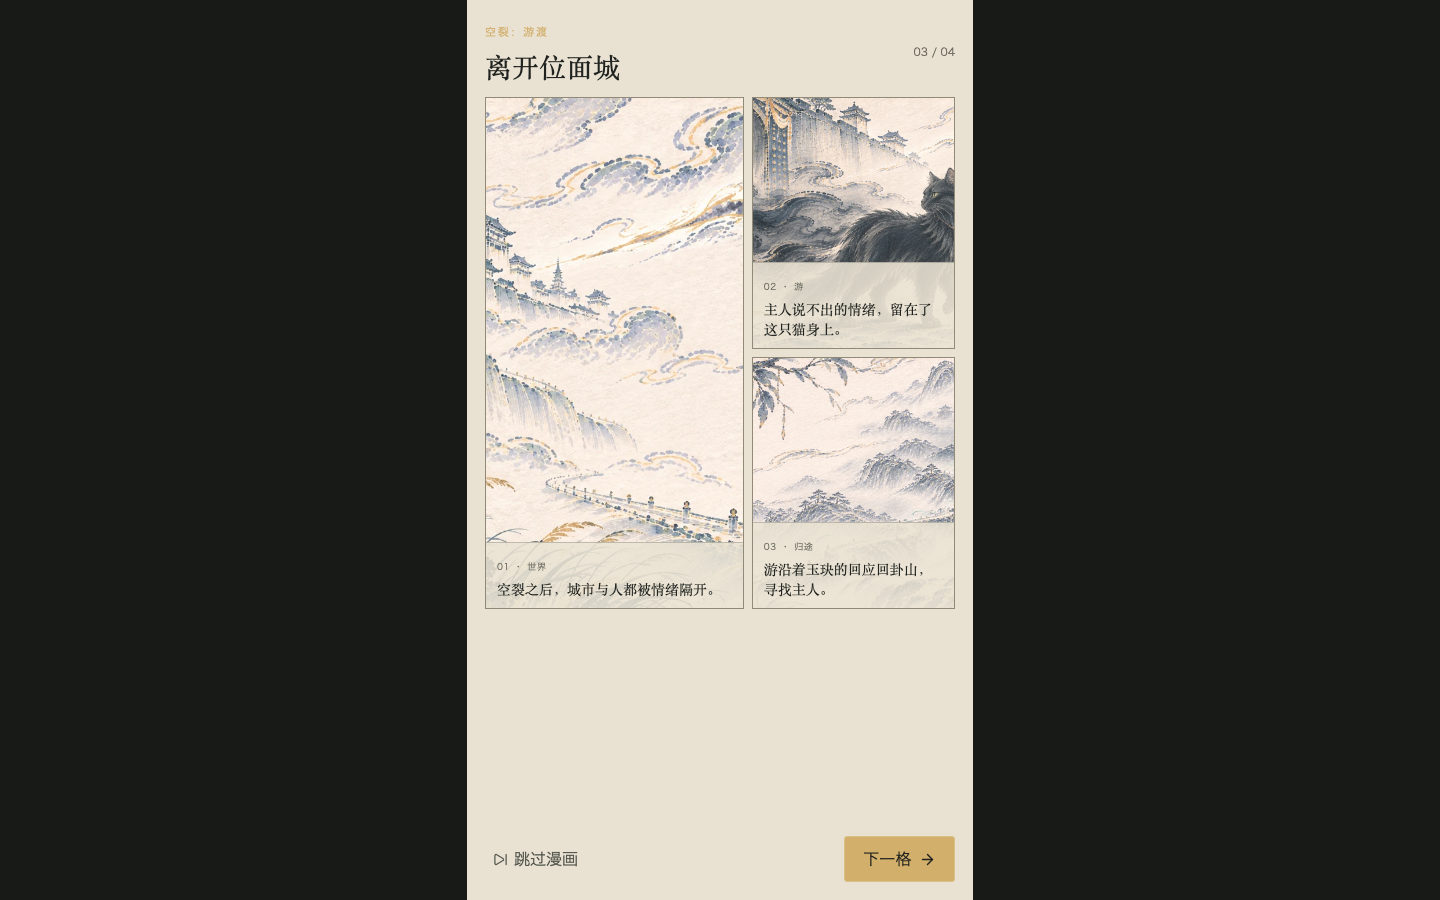
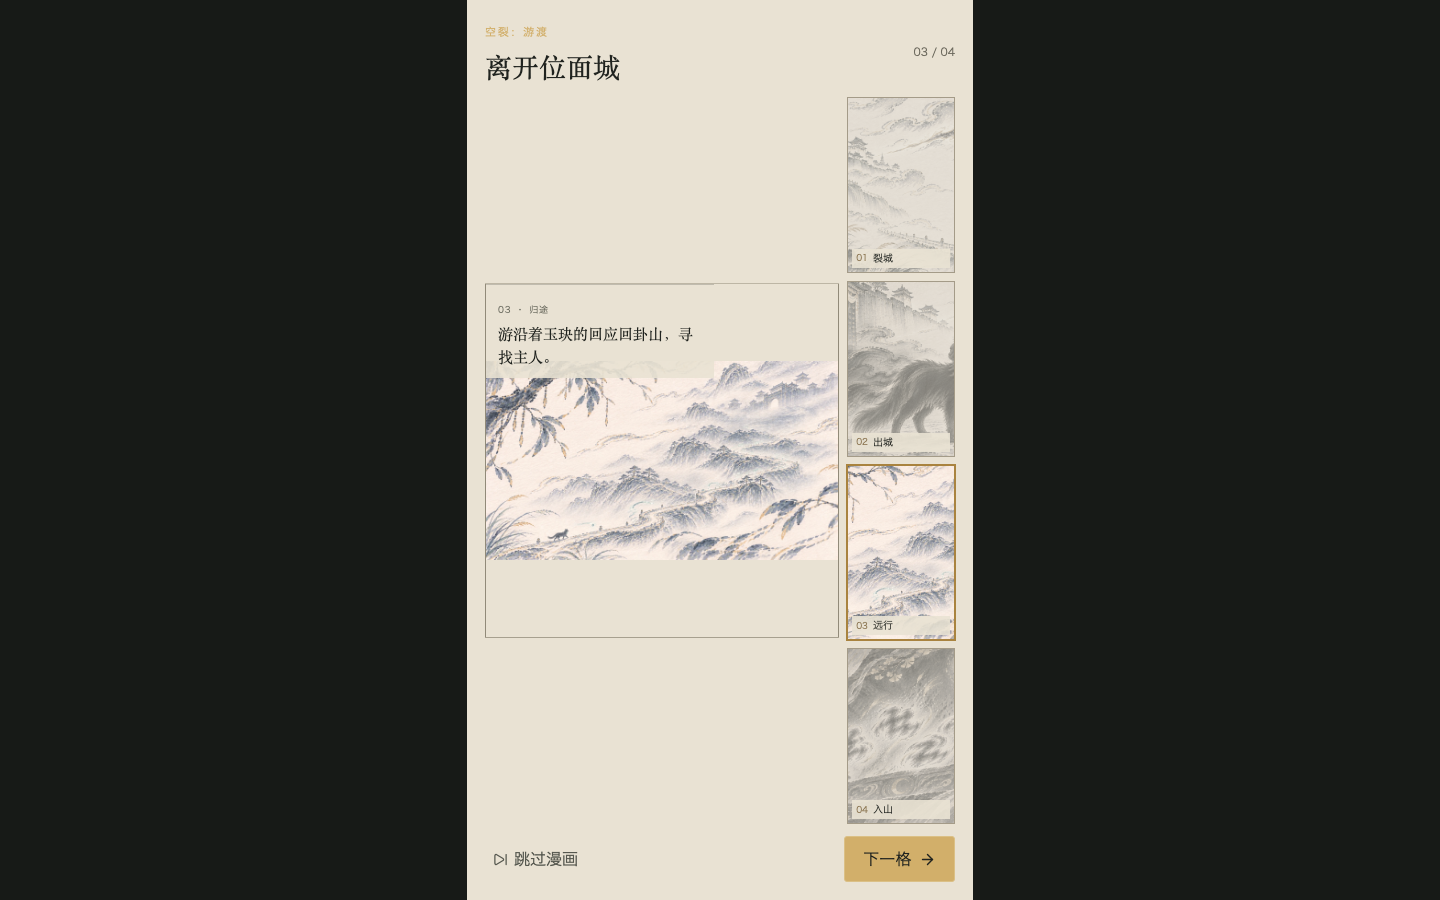
refine comic direction with Claude review

Changed region(s): [[0.3125, 0.0933, 0.6875, 0.9333], [0.3438, 0.1244, 0.375, 0.1556]]

diff --git a/app/src/art-reboot/styles.css b/app/src/art-reboot/styles.css
@@ -121,3 +121,51 @@ button:focus-visible { outline: 2px solid #d2af6a; outline-offset: 3px; }
 @media (prefers-reduced-motion: reduce) {
   *, *::before, *::after { animation-duration: .01ms !important; animation-iteration-count: 1 !important; transition-duration: .01ms !important; }
 }
+.comic-cinema { display: grid; grid-template-columns: minmax(0, 1fr) 108px; gap: 10px; flex: 1; min-height: 0; }
+.comic-main-shot { position: relative; align-self: center; width: 100%; height: auto; max-height: 100%; aspect-ratio: 1 / 1; overflow: hidden; isolation: isolate; background: #e9e2d3; border: 1px solid #918a79; animation: comic-main-reveal .45s steps(3, end) both; }
+.comic-main-shot .comic-shot { position: absolute; inset: 0; width: 100%; height: 100%; object-fit: contain; }
+.comic-rail { display: flex; flex-direction: column; gap: 8px; min-height: 0; }
+.comic-rail button { position: relative; flex: 1; min-height: 0; padding: 0; overflow: hidden; background: #d5cdbd; border: 1px solid #a49b88; cursor: pointer; }
+.comic-rail button img { width: 100%; height: 100%; object-fit: cover; opacity: .5; filter: grayscale(.65); transition: opacity 160ms ease, filter 160ms ease; }
+.comic-rail button.is-active { border-color: #a9833f; box-shadow: 0 0 0 1px #a9833f; }
+.comic-rail button.is-active img, .comic-rail button:hover img { opacity: 1; filter: grayscale(0); }
+.comic-rail button span { position: absolute; left: 4px; right: 4px; bottom: 4px; display: flex; align-items: center; gap: 5px; padding: 2px 4px; color: #20231f; background: rgba(233, 226, 211, .9); font-size: 10px; }
+.comic-rail button small { color: #8a7450; font-size: 9px; }
+.comic-main-shot .comic-caption { position: absolute; z-index: 3; max-width: 58%; padding: 10px 12px; background: rgba(233, 226, 211, .9); border-top: 1px solid rgba(32, 35, 31, .2); }
+.comic-main-shot .comic-caption span { color: #6c6c60; font-size: 9px; letter-spacing: .1em; }
+.comic-main-shot .comic-caption p { margin: 4px 0 0; font: 500 15px/1.5 'Songti SC', serif; }
+.comic-main-shot .caption-0 { left: 0; right: auto; top: auto; bottom: 0; }
+.comic-main-shot .caption-1 { left: auto; right: 0; top: 0; bottom: auto; }
+.comic-main-shot .caption-2 { left: 0; right: auto; top: 0; bottom: auto; }
+.comic-main-shot .caption-3 { left: 0; right: auto; top: auto; bottom: 0; max-width: 68%; }
+.comic-effect-rift { position: absolute; z-index: 1; inset: 0; background: linear-gradient(112deg, transparent 42%, rgba(233, 226, 211, .74) 50%, transparent 58%); animation: comic-rift-open 1.5s steps(3, end) both; }
+.comic-effect-retreat { position: absolute; z-index: 1; inset: 0; background: #20231f; animation: comic-ink-retreat 1.4s steps(4, end) forwards; }
+.comic-effect-footprints { position: absolute; z-index: 2; inset: 0; pointer-events: none; }
+.comic-effect-footprints i { position: absolute; width: 8px; height: 5px; border-radius: 45% 55% 40% 60%; background: #20231f; opacity: 0; animation: comic-footprint .25s steps(1, end) forwards; animation-delay: calc(.45s + var(--step) * .3s); }
+.comic-effect-footprints i:nth-child(1) { left: 18%; top: 79%; transform: rotate(-18deg); }
+.comic-effect-footprints i:nth-child(2) { left: 25%; top: 74%; transform: rotate(12deg); }
+.comic-effect-footprints i:nth-child(3) { left: 32%; top: 68%; transform: rotate(-14deg); }
+.comic-effect-footprints i:nth-child(4) { left: 39%; top: 62%; transform: rotate(9deg); }
+.comic-effect-footprints i:nth-child(5) { left: 46%; top: 56%; transform: rotate(-8deg); }
+.comic-effect-road { position: absolute; z-index: 1; inset: 0; background: #e9e2d3; animation: comic-road-reveal 1.6s steps(3, end) forwards; }
+.comic-effect-clusters { position: absolute; z-index: 2; inset: 0; pointer-events: none; }
+.comic-effect-clusters i { position: absolute; width: 10px; height: 8px; border-radius: 48% 52% 45% 55%; background: #20231f; opacity: 0; animation: comic-cluster 1.5s steps(3, end) forwards; animation-delay: calc(var(--step) * .16s); }
+.comic-effect-clusters i:nth-child(1) { left: 18%; top: 72%; width: 16px; height: 12px; }
+.comic-effect-clusters i:nth-child(2) { left: 34%; top: 66%; width: 9px; height: 7px; }
+.comic-effect-clusters i:nth-child(3) { left: 49%; top: 75%; width: 20px; height: 13px; }
+.comic-effect-clusters i:nth-child(4) { left: 61%; top: 62%; width: 7px; height: 5px; }
+.comic-effect-clusters i:nth-child(5) { left: 72%; top: 70%; width: 12px; height: 8px; }
+@keyframes comic-main-reveal { from { clip-path: inset(0 0 100% 0); } to { clip-path: inset(0); } }
+@keyframes comic-rift-open { from { clip-path: inset(0 48% 0 48%); opacity: 0; } to { clip-path: inset(0); opacity: 1; } }
+@keyframes comic-ink-retreat { from { clip-path: inset(0 0 0 0); } to { clip-path: inset(0 100% 0 0); } }
+@keyframes comic-footprint { to { opacity: .82; } }
+@keyframes comic-road-reveal { from { clip-path: inset(0); } to { clip-path: inset(100% 0 0 0); } }
+@keyframes comic-cluster { 0% { opacity: 0; transform: translate(10px, -8px) scale(.7); } 60% { opacity: .55; } 100% { opacity: .9; transform: translate(0, 0) scale(1); } }
+@media (max-width: 760px) {
+  .comic-cinema { grid-template-columns: 1fr; grid-template-rows: minmax(0, 1fr) 64px; }
+  .comic-rail { flex-direction: row; }
+  .comic-rail button img { display: none; }
+  .comic-rail button span { inset: 3px; justify-content: center; }
+  .comic-main-shot .comic-caption { max-width: 82%; }
+  .comic-main-shot .caption-3 { max-width: 88%; }
+}

diff --git a/app/src/art-reboot/RebootComic.tsx b/app/src/art-reboot/RebootComic.tsx
@@ -4,14 +4,15 @@ import { ArrowRight, SkipForward } from 'lucide-react'
 type Props = { onComplete: () => void }
 
 const PANELS = [
-  { kicker: '01 · 世界', text: '空裂之后，城市与人都被情绪隔开。' },
-  { kicker: '02 · 游', text: '主人说不出的情绪，留在了这只猫身上。' },
-  { kicker: '03 · 归途', text: '游沿着玉玦的回应回卦山，寻找主人。' },
-  { kicker: '04 · 痴', text: '先看清三个“痴”，让古寺复色，才能继续向前。' },
+  { kicker: '01 · 世界', label: '裂城', text: '空裂之后，城市与人都被情绪隔开。' },
+  { kicker: '02 · 游', label: '出城', text: '主人说不出的情绪，留在了这只猫身上。' },
+  { kicker: '03 · 归途', label: '远行', text: '游沿着玉玦的回应回卦山，寻找主人。' },
+  { kicker: '04 · 五毒', label: '入山', text: '卦山把五毒放大成失真的情绪。看清它们，才能继续靠近主人。' },
 ]
 
 export default function RebootComic({ onComplete }: Props) {
   const [active, setActive] = useState(0)
+  const next = () => active === PANELS.length - 1 ? onComplete() : setActive((value) => value + 1)
   return (
     <main className="reboot-shell reboot-comic-shell">
       <section className="reboot-comic" aria-label="逐格出城漫画">
@@ -19,24 +20,29 @@ export default function RebootComic({ onComplete }: Props) {
           <div><span className="reboot-kicker">空裂：游渡</span><h1>离开位面城</h1></div>
           <span>{String(active + 1).padStart(2, '0')} / 04</span>
         </header>
-        <div className="reboot-comic-grid">
-          {PANELS.map((panel, index) => {
-            const visible = index <= active
-            return (
-              <article key={panel.kicker} className={`comic-panel comic-panel-${index} ${visible ? 'is-visible' : ''}`} aria-hidden={!visible}>
-                <div className="comic-panel-art">
-                  <img className={`comic-shot comic-shot-${index}`} src={`./assets/art-reboot/cinematic/comic-0${index + 1}.webp`} alt={panel.text} />
-                </div>
-                <div className="comic-caption"><span>{panel.kicker}</span><p>{panel.text}</p></div>
-              </article>
-            )
-          })}
+        <div className="comic-cinema">
+          <div className={`comic-main-shot shot-${active}`} data-panel={active + 1} key={active}>
+            <img className={`comic-shot comic-shot-${active}`} src={`./assets/art-reboot/cinematic/comic-0${active + 1}.webp`} alt={PANELS[active].text} />
+            {active === 0 && <div className="comic-effect-rift" aria-hidden="true" />}
+            {active === 1 && (
+              <><div className="comic-effect-retreat" aria-hidden="true" /><div className="comic-effect-footprints" aria-hidden="true">{[0, 1, 2, 3, 4].map((index) => <i key={index} style={{ '--step': index } as React.CSSProperties} />)}</div></>
+            )}
+            {active === 2 && <div className="comic-effect-road" aria-hidden="true" />}
+            {active === 3 && <div className="comic-effect-clusters" aria-hidden="true">{[0, 1, 2, 3, 4].map((index) => <i key={index} style={{ '--step': index } as React.CSSProperties} />)}</div>}
+            <div className={`comic-caption caption-${active}`}><span>{PANELS[active].kicker}</span><p>{PANELS[active].text}</p></div>
+          </div>
+          <nav className="comic-rail" aria-label="选择分镜">
+            {PANELS.map((panel, index) => (
+              <button key={panel.kicker} type="button" className={index === active ? 'is-active' : ''} onClick={() => setActive(index)} aria-label={`查看第${index + 1}格：${panel.label}`} aria-pressed={index === active}>
+                <img src={`./assets/art-reboot/cinematic/comic-0${index + 1}.webp`} alt="" />
+                <span><small>0{index + 1}</small>{panel.label}</span>
+              </button>
+            ))}
+          </nav>
         </div>
         <footer className="reboot-comic-footer">
           <button type="button" className="reboot-text-link" onClick={onComplete}><SkipForward size={15} />跳过漫画</button>
-          <button type="button" className="reboot-primary" onClick={() => active === PANELS.length - 1 ? onComplete() : setActive((value) => value + 1)}>
-            {active === PANELS.length - 1 ? '进入游戏' : '下一格'}<ArrowRight size={17} />
-          </button>
+          <button type="button" className="reboot-primary" onClick={next}>{active === PANELS.length - 1 ? '进入游戏' : '下一格'}<ArrowRight size={17} /></button>
         </footer>
       </section>
     </main>

diff --git a/tools/prepare_art_reboot_assets.py b/tools/prepare_art_reboot_assets.py
@@ -49,7 +49,8 @@ for row, suffix in enumerate(['outer', 'inner']):
 cinematic_out = OUT / 'cinematic'
 cinematic_out.mkdir(exist_ok=True)
 for key in ['scene-outer', 'scene-inner', 'scene-complete', 'comic-01', 'comic-02', 'comic-03', 'comic-04']:
-    source = CANDIDATES / 'comparisons' / f'gpt-{key}-ink-v1.png'
+    version = 'v2' if key == 'scene-complete' and (CANDIDATES / 'comparisons' / 'gpt-scene-complete-ink-v2.png').exists() else 'v1'
+    source = CANDIDATES / 'comparisons' / f'gpt-{key}-ink-{version}.png'
     if not source.exists():
         raise FileNotFoundError(source)
     image = Image.open(source).convert('RGBA')

diff --git a/docs/CLAUDE_SGP_DEV_HANDOFF.md b/docs/CLAUDE_SGP_DEV_HANDOFF.md
@@ -1,0 +1,34 @@
+# sgp-dev / Claude 独立开发交接
+
+## 协作边界
+
+- 本地预留分支：`art-reboot-claude`，工作区：`/Users/wvngbvao483/offcircle_dev/konglie-youdu-claude`。
+- sgp-dev 如在另一台机器上，应 clone `https://github.com/biaowww/konglie-youdu` 并 checkout `art-reboot-claude`，完成后 push 同一分支，不直接覆盖 `art-reboot-kimi`。
+- 不允许多个写作者同时改同一工作区。最终合并由同一个集成负责人执行。
+
+## 开始前必须验证，不可预设
+
+1. G Drive／MCP 的实际可读路径与写入权限，不要只凭插件名称判断。
+2. Node、npm、Python、图像处理与浏览器验收能力。
+3. OpenRouter 的专用凭证是否存在，不得借用其他 session 的 Key。
+4. 本机 ComfyUI 是否可访问。若不可访问，不要假设能调用本机模型或进程；改为使用明确授权的 OpenRouter 管线，或先报告阻塞。
+5. 先读 `03 Art` 原始美术和 `docs/ART_REBOOT.md`，不要从其他模型的摘要重新概括风格。
+
+## 开发目标
+
+做一套独立的 `art-reboot-claude` 候选，重点不是复制 Kimi 版本，而是解决：
+
+- 分镜必须能表达世界、游为何出发与寻找主人，末格不做单关教学。
+- 自然猫、神像、玉玦与环境一体化，禁止悬浮饰物与 sticker 拼贴。
+- 墨点、飞白、抽象形体、非对称与中式散点透视，不要现代写实、3D 和通用 AI 奇幻插画。
+- 每格有独立版式与局部动效，不能只把图塞进网格或平移缩放。
+- 痴关卡保留“移动光圈→看清痴→点击”的轻引导，不让教程压过世界观。
+
+## 文件与发布边界
+
+- 新实现放在 `app/art-reboot.html`、`app/src/art-reboot/**`、`app/public/assets/art-reboot/**`、`qa/art-reboot/**`、`docs/ART_REBOOT.md`。
+- `app/vite.config.ts` 只能登记独立 HTML，不改旧游戏入口。
+- 不改 `App.tsx`、`App.css`、旧关卡、地图、package.json、锁文件和发布配置，不自行新增依赖。
+- 美术候选输出到 `03 Art/AI生成资产/claude/`，不输出到 `ProjectBreach/美术Art`，不覆盖原图。
+- 每步保持可构建、可玩，运行 `npm run build`、`npm run lint` 和真实桌面／375px 浏览器验收。
+- 不强制推送、不合并、不公开新 URL。提交 `art-reboot-claude` 后由集成负责人审查并决定合并。

diff --git a/docs/ART_REBOOT.md b/docs/ART_REBOOT.md
@@ -22,8 +22,8 @@
 ## 可玩实现
 
 - `app/art-reboot.html` 与 `app/src/art-reboot/` 是独立入口，不依赖旧标题页。
-- 四格漫画使用独立原画：仰视城门、出城侧写、旅途俯视、入山特写，不再复用同一城市图裁切。
-- `cinematic/scene-outer.webp`：游在低机位石阶上望向神像；`scene-inner.webp`：斜俯视灯海；`scene-complete.webp`：复色近景。角色、神像与道具直接画在场景中，热点层不再贴大 sprite。
+- 四格漫画使用独立原画：仰视城门、出城侧写、旅途俯视、入山特写，不再复用同一城市图裁切；版式为主镜头＋分镜索引，逐格使用裂隙展开、暗部退开、足迹落下、山路揭示与墨点聚合。末格交代五毒与寻找主人，不做痴教学。
+- `cinematic/scene-outer.webp`：游在低机位石阶上望向神像；`scene-inner.webp`：斜俯视灯海；`scene-complete.webp`：复色近景且不含悬浮玉玦。角色、神像与道具直接画在场景中，热点层不再贴大 sprite。
 - 漫画逐格揭示，格子内有角色进入、路线与场景动效；演出采用 2D／2.5D 平面分层与 `steps()` 有限动画节奏，不使用连续 3D 推拉。
 - 开场明确“找齐三个痴，让古寺复色并继续寻找主人”，进入后显示“移动光圈，找到痴后点一下”；完成按钮为“继续寻找主人”。
 - 痴保留探灯找三个目标；煤油灯可识别为幻境，忿以两次场景侵入增加灯海。

diff --git a/docs/CLAUDE_REVIEW.md b/docs/CLAUDE_REVIEW.md
@@ -1,0 +1,20 @@
+# OpenRouter Claude 分镜审查与采用结果
+
+调用：`anthropic/claude-sonnet-5.5`，仅用于审查，不直接写本地文件。
+
+## 关键意见
+
+- “墨点＋电影感＋非对称”只是标签堆叠，会让模型取平均化的奇幻插画，而没有说明负空间、视线路径与物理因果。
+- 墨点不能只是纹理，必须说明它来自纸面撕裂、足迹、路径、袍底拖痕或聚散，否则会有滤镜和贴纸感。
+- 道具词会触发悬浮图标，应直接禁止悬浮饰物，而不是要求它把悬浮物画好。
+- 每格需要不同景别、密度、遮罩和局部运动，不能只把图放进网格。
+
+## 已采用
+
+- 漫画改为主镜头＋分镜索引，不再固定 2×2。
+- 每格分别使用裂隙展开、暗部退开、足迹落下、山路揭示与墨点聚合，使用 CSS `steps()` 和遮罩。
+- 末格不再讲痴的教学，改为五毒与寻找主人。
+- 完成场景重新生成，不含悬浮玉玦、字母、光环或佩饰。
+- 修正 caption 同时设置四边定位导致整格遮挡的问题，主镜头保留完整构图。
+
+Claude 不与其他写作者同时修改同一工作区。sgp-dev 的独立开发交接见 `docs/CLAUDE_SGP_DEV_HANDOFF.md`。
